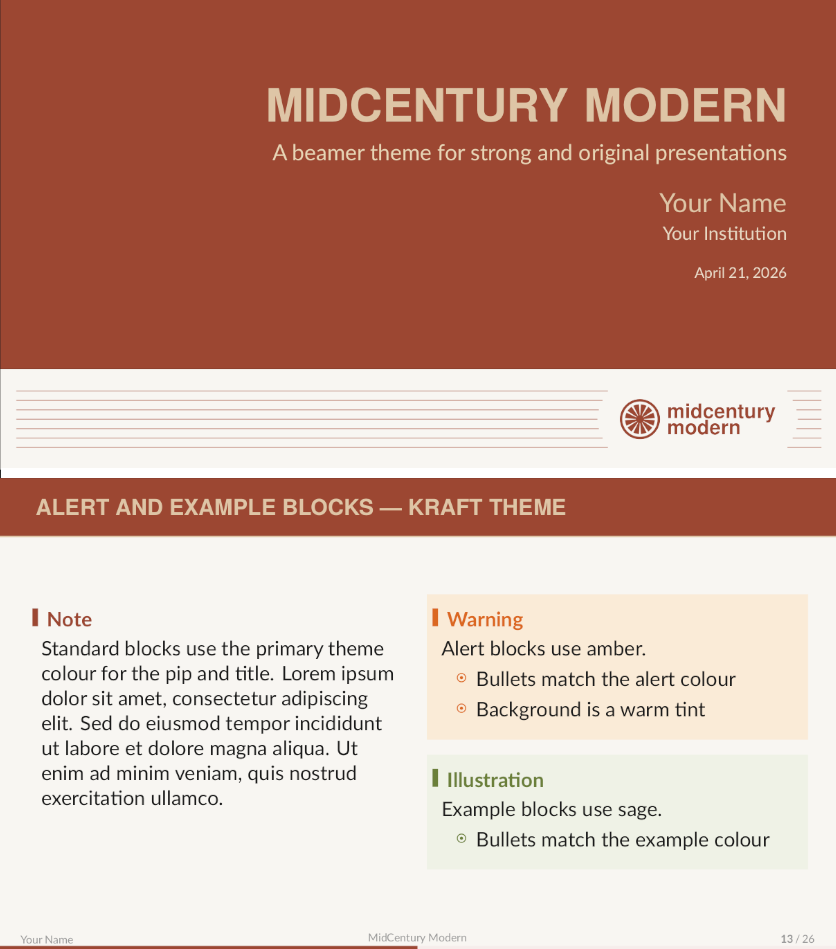
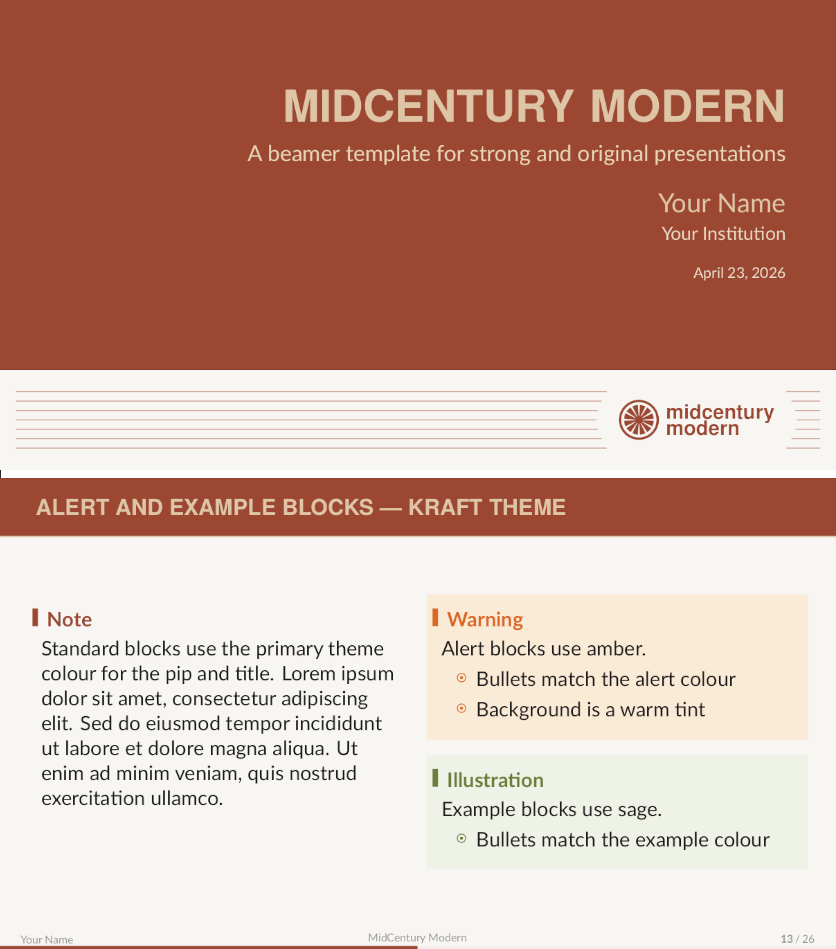
Theme -> Template

diff --git a/README.md b/README.md
@@ -1,16 +1,16 @@
-# midcenturymodern — a retro-inspired Beamer theme
+# Midcenturymodern — a retro-inspired Beamer template
 
 
 <div align="center">
 <img src="/img/sample.png" alt="Sample" width="70%" >
 </div>
 
-**midcenturymodern** is a modern Beamer theme with a retro feel. It requires LuaLaTeX.
+**Midcenturymodern** is a modern Beamer template with a retro feel. It requires LuaLaTeX.
 
 
 ## Two built-in themes
 
-The theme ships with two colour palettes. **Kraft** leans warm, with terracotta and kraft paper tones. **DeepBlue** goes in the opposite direction, with a dark navy background and icy blue accents.
+The template ships with two colour themes. **Kraft** leans warm, with terracotta and kraft paper tones. **DeepBlue** goes in the opposite direction, with a dark navy background and icy blue accents.
 
 Select a theme in your preamble:
 
